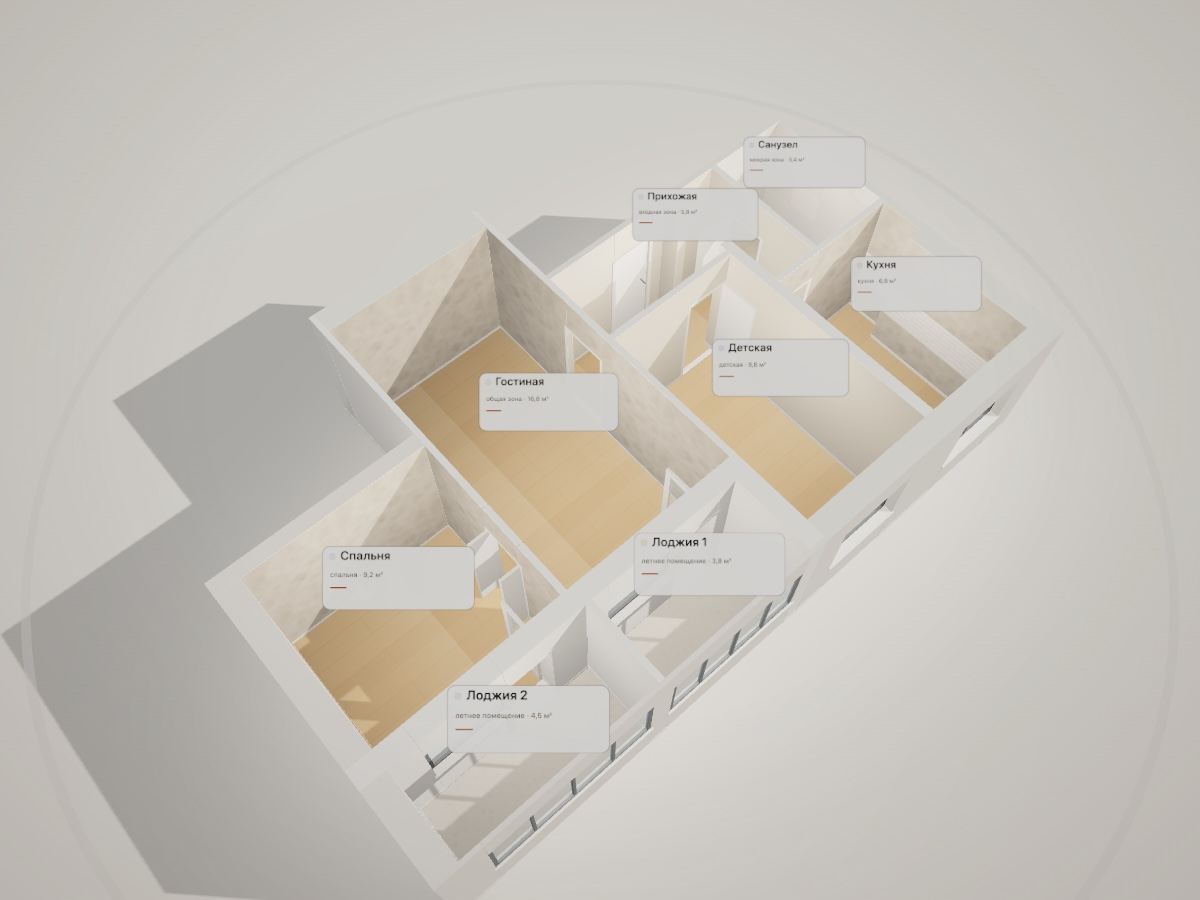
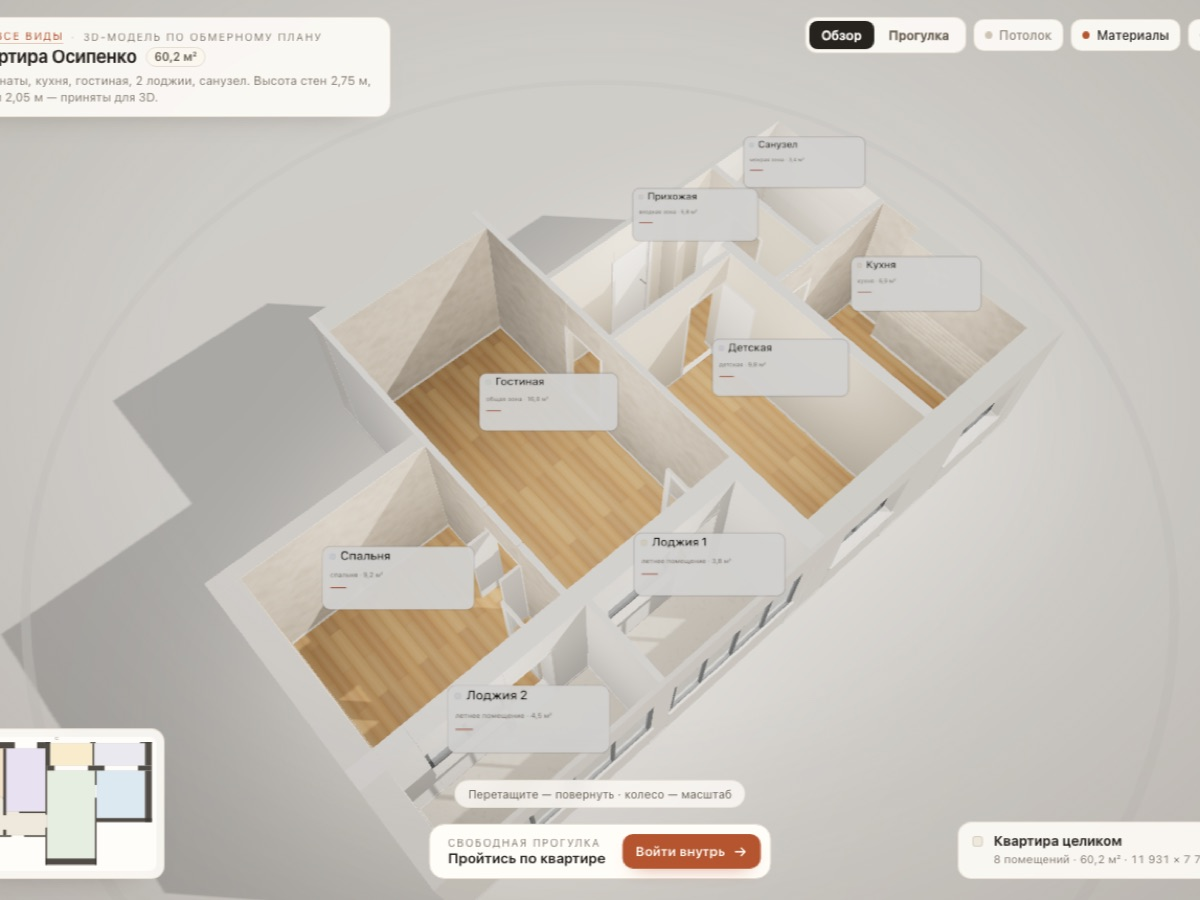
Show AN 908 laminate at real plank scale with brick layout and take-off

diff --git a/3d.html b/3d.html
@@ -147,7 +147,24 @@
     font-size:9.9px; line-height:1.45; color:#7d7466; border-top:1px solid var(--line);
     padding-top:8px; margin:11px 0 1px;
   }
-  .sw-lam{background:linear-gradient(135deg,#d9c09b,#c5a173 55%,#b8905f)}
+  .fin-num{
+    display:flex; justify-content:space-between; align-items:baseline; gap:8px;
+    font-size:10.6px; line-height:1.5; padding:1px 0;
+    border-bottom:1px dashed rgba(120,108,92,.18);
+  }
+  .fin-num em{font-style:normal; color:var(--muted); font-size:10px}
+  .fin-num b{font-weight:600; font-variant-numeric:tabular-nums; white-space:nowrap}
+  .fin-sum{
+    display:flex; justify-content:space-between; align-items:baseline; gap:8px;
+    font-size:11.2px; font-weight:650; line-height:1.5; padding:5px 0 1px;
+    border-bottom:1px solid var(--line);
+  }
+  .fin-sum span:last-child{font-variant-numeric:tabular-nums}
+  .fin-line{font-size:9.9px; line-height:1.45; color:#7d7466; margin:5px 0 6px}
+  .sw-lam{background:
+    repeating-linear-gradient(0deg,rgba(96,58,24,.30) 0 1px,transparent 1px 7px),
+    repeating-linear-gradient(90deg,rgba(96,58,24,.24) 0 1px,transparent 1px 14px),
+    linear-gradient(135deg,#e0bd90,#cfa477 55%,#c1935f)}
   .sw-por{background:radial-gradient(circle at 30% 25%,#e7dac7,#d3c2ab 70%)}
   .sw-log{background:linear-gradient(135deg,#dad5cb,#c9c2b5)}
   .sw-deco{background:radial-gradient(circle at 35% 30%,#e1d8cb,#cec2b1 75%)}
@@ -306,8 +323,21 @@
       <div class="fin-scroll">
         <div class="fin-group">
           <div class="fin-title">Полы</div>
-          <div class="fin-row"><span class="sw sw-lam"></span><div><b>Ламинат</b><small>светло-коричневый · все комнаты</small></div></div>
+          <div class="fin-row"><span class="sw sw-lam"></span><div><b>Ламинат AN 908</b><small>все помещения, кроме санузла и лоджий</small></div></div>
           <div class="fin-row"><span class="sw sw-por"></span><div><b>Керамогранит</b><small>бежевый · санузел</small></div></div>
+        </div>
+        <div class="fin-group">
+          <div class="fin-title">Раскладка ламината</div>
+          <div class="fin-row"><span class="sw sw-lam"></span><div><b>Anatolia Design Honey (AN 908)</b><small>33 класс · 8 мм · планка 1290×190 · 0,2451 м²</small></div></div>
+          <p class="fin-line">«Кирпичиком», сдвиг рядов 645 мм. Торец планок — к окну, значит планки идут перпендикулярно оконной стене. Одно направление на всю квартиру, подрезка у стен.</p>
+          <div class="fin-num"><span>Кухня <em>6,9 м²</em></span><b>31 планка</b></div>
+          <div class="fin-num"><span>Детская <em>9,8 м²</em></span><b>43 планки</b></div>
+          <div class="fin-num"><span>Спальня <em>9,2 м²</em></span><b>41 планка</b></div>
+          <div class="fin-num"><span>Гостиная <em>16,8 м²</em></span><b>74 планки</b></div>
+          <div class="fin-num"><span>Прихожая <em>5,8 м²</em></span><b>26 планок</b></div>
+          <div class="fin-sum"><span>Итого</span><span>48,5 м² · 215 планок</span></div>
+          <div class="fin-sum"><span>Закупка</span><span>27 упак. · 216 шт · 52,9 м²</span></div>
+          <p class="fin-line">В упаковке 8 планок = 1,9608 м². Нетто 198 планок; +7% на подрезку кирпичиком = 212; по помещениям в обрез — 215, поэтому берём 27 упаковок (запас 4,4 м²).</p>
         </div>
         <div class="fin-group">
           <div class="fin-title">Стены</div>
@@ -371,21 +401,21 @@
   if (!T){ fail('Не загрузилась библиотека 3D. Откройте файл заново.'); return; }
 
   const ROOMS = [
-    {id:'r1', name:'Кухня', role:'кухня', area:6.9, dims:'2 181 × 3 090', color:'#f3e2c8', floor:'wood',
+    {id:'r1', name:'Кухня', role:'кухня', area:6.9, dims:'2 181 × 3 090', color:'#f3e2c8', floor:'laminate',
      poly:[[400,400],[2581,400],[2581,3489],[150,3489],[150,2734],[400,2734]], label:[1400,1900]},
-    {id:'r2', name:'Детская', role:'детская', area:9.8, dims:'2 466 × 3 976', color:'#e8e1f1', floor:'wood',
+    {id:'r2', name:'Детская', role:'детская', area:9.8, dims:'2 466 × 3 976', color:'#e8e1f1', floor:'laminate',
      poly:[[2771,400],[5237,400],[5237,4376],[2771,4376]], label:[4000,2200]},
-    {id:'r3', name:'Спальня', role:'спальня', area:9.2, dims:'3 060 × 2 995', color:'#dde9f1', floor:'wood',
+    {id:'r3', name:'Спальня', role:'спальня', area:9.2, dims:'3 060 × 2 995', color:'#dde9f1', floor:'laminate',
      poly:[[8472,1800],[11531,1800],[11531,4794],[8472,4794]], label:[10000,3200]},
     {id:'log1', name:'Лоджия 1', role:'летнее помещение', area:3.8, dims:'2 672 × 1 410', color:'#f8eccd', floor:'concrete',
      poly:[[5537,70],[8208,70],[8208,1480],[5537,1480]], label:[6870,700]},
-    {id:'liv', name:'Гостиная', role:'общая зона', area:16.8, dims:'5 540 × 3 035', color:'#e5eee0', floor:'wood',
+    {id:'liv', name:'Гостиная', role:'общая зона', area:16.8, dims:'5 540 × 3 035', color:'#e5eee0', floor:'laminate',
      poly:[[5337,1800],[8372,1800],[8372,7339],[5337,7339]], label:[6855,3950]},
     {id:'log2', name:'Лоджия 2', role:'летнее помещение', area:4.5, dims:'3 223 × 1 410', color:'#e9e9ef', floor:'concrete',
      poly:[[8308,70],[11531,70],[11531,1480],[8308,1480]], label:[9900,700]},
     {id:'bath', name:'Санузел', role:'мокрая зона', area:3.4, dims:'1 502 × 2 287', color:'#d8ebee', floor:'porcelain',
      poly:[[129,3589],[1631,3589],[1631,5876],[129,5876]], label:[880,4680]},
-    {id:'hall', name:'Прихожая', role:'входная зона', area:5.8, dims:'', color:'#efe9dd', floor:'wood',
+    {id:'hall', name:'Прихожая', role:'входная зона', area:5.8, dims:'', color:'#efe9dd', floor:'laminate',
      poly:[[1731,3589],[1757,3589],[1757,3489],[2581,3489],[2581,4617],[2771,4617],[2771,4376],[3574,4376],[3574,4476],[5237,4476],[5237,4577],[5337,4577],[5337,5377],[5237,5377],[5237,5876],[2771,5876],[2771,5516],[2581,5516],[2581,5876],[1731,5876]], label:[2950,5050]}
   ];
 
@@ -424,14 +454,14 @@
   ];
 
   const FINISH = {
-    r1:  {walls:'deco', backsplash:true, ceil:'paint', short:'Ламинат · декоративка + фартук'},
-    r2:  {walls:'paper', ceil:'white', short:'Ламинат · обои'},
-    r3:  {walls:'deco', accent:'east', ceil:'white', short:'Ламинат · декоративка + стена обоями'},
+    r1:  {walls:'deco', backsplash:true, ceil:'paint', short:'Ламинат AN 908 · декоративка + фартук'},
+    r2:  {walls:'paper', ceil:'white', short:'Ламинат AN 908 · обои'},
+    r3:  {walls:'deco', accent:'east', ceil:'white', short:'Ламинат AN 908 · декоративка + стена обоями'},
     log1:{walls:null, ceil:'white', short:'Без отделки'},
-    liv: {walls:'deco', ceil:'white', short:'Ламинат · декоративка'},
+    liv: {walls:'deco', ceil:'white', short:'Ламинат AN 908 · декоративка'},
     log2:{walls:null, ceil:'white', short:'Без отделки'},
     bath:{walls:'tile', ceil:'paint', short:'Керамогранит · плитка'},
-    hall:{walls:'paper', ceil:'white', short:'Ламинат · обои'}
+    hall:{walls:'paper', ceil:'white', short:'Ламинат AN 908 · обои'}
   };
 
   const MM = 0.001;
@@ -518,35 +548,79 @@
     return t;
   }
 
-  function woodTexture(){
-    return canvasTexture(1024, (g,S)=>{
-      g.fillStyle = '#cbaa80'; g.fillRect(0,0,S,S);
-      const rows = 7, ph = S/rows;
-      for (let i=0;i<rows;i++){
-        const tint = (Math.random() - 0.5)*0.075;
-        g.fillStyle = tint > 0 ? `rgba(255,246,232,${tint})` : `rgba(92,66,40,${-tint})`;
-        g.fillRect(0,i*ph,S,ph-2);
-        for (let k=0;k<20;k++){
-          const y = i*ph + 6 + Math.random()*(ph-12);
-          const x0 = Math.random()*S*0.7;
-          g.strokeStyle = `rgba(100,68,38,${0.03 + Math.random()*0.035})`;
-          g.lineWidth = 0.8 + Math.random()*1.4;
+  // Ламинат Anatolia Design Honey (AN 908), 33 класс, 8 мм, планка 1290 × 190 мм.
+  // Раскладка «кирпичиком» (ряды со сдвигом в полпланки = 645 мм), торец к окну:
+  // длинная ось планок идёт перпендикулярно оконной стене, то есть вдоль z модели.
+  // UV пола в ExtrudeGeometry = метры мировой сцены (u → x, v → z), поэтому
+  // планки рисуем вертикально, а повтор текстуры задаём в мм на 1 м.
+  const LAM = { len:1290, wid:190, cols:4 };                    // 4 планки поперёк
+  LAM.tileU = LAM.wid * LAM.cols;                               // 760 мм по u
+  LAM.tileV = LAM.len * 2;                                      // 2580 мм по v
+  const hash01 = (a,b) => { const s = Math.sin(a*127.1 + b*311.7) * 43758.5453; return s - Math.floor(s); };
+
+  function laminateTexture(){
+    const S = 1024;
+    const c = document.createElement('canvas');
+    c.width = c.height = S;
+    const g = c.getContext('2d');
+    const pw = S / LAM.cols;                     // 190 мм -> 256 px
+    const ph = S / 2;                            // 1290 мм -> 512 px
+    g.fillStyle = '#cfa477'; g.fillRect(0,0,S,S);
+    for (let col=0; col<LAM.cols; col++){
+      const x0 = col*pw;
+      const shift = (col % 2) ? ph/2 : 0;        // кирпичный сдвиг 645 мм
+      for (let k=-1; k<=2; k++){
+        const y0 = k*ph + shift;
+        const p = ((k % 2) + 2) % 2;             // чётность ряда — шов текстуры бесшовный
+        const rA = hash01(col+1, p+3), rB = hash01(col+7, p+11);
+        g.fillStyle = `hsl(${31 + rA*4}, ${32 + rB*8}%, ${51 + rA*8}%)`;
+        g.fillRect(x0, y0, pw, ph);
+        // волокно вдоль планки
+        const lines = 9 + Math.round(rB*7);
+        for (let i=0;i<lines;i++){
+          const fx = hash01(col*13+i, p*7+1);
+          const gx = x0 + 3 + fx*(pw-6);
+          const amp = 1.5 + hash01(col+i, p+29)*3.5;
+          const dark = i % 3 === 0;
+          g.strokeStyle = dark
+            ? `rgba(122,86,46,${0.05 + hash01(col+i*3, p+5)*0.05})`
+            : `rgba(255,240,214,${0.05 + hash01(col+i*5, p+9)*0.05})`;
+          g.lineWidth = 0.9 + hash01(col+i*7, p+13)*2.1;
           g.beginPath();
-          g.moveTo(x0, y);
-          g.bezierCurveTo(x0+90, y-4+Math.random()*8, x0+230, y-4+Math.random()*8, x0+390, y);
+          g.moveTo(gx, y0 + 6);
+          g.bezierCurveTo(gx + amp, y0 + ph*0.34, gx - amp, y0 + ph*0.68, gx + amp*0.5, y0 + ph - 6);
           g.stroke();
         }
-        g.fillStyle = 'rgba(96,68,40,.17)';
-        g.fillRect(0, i*ph, S, 2.4);
-        const jx = (i % 2 ? S*0.37 : S*0.79);
-        g.fillRect(jx, i*ph, 2.2, ph);
+        // фаска 4V + лёгкий сатин поперёк планки
+        const sh = g.createLinearGradient(x0, 0, x0+pw, 0);
+        sh.addColorStop(0,'rgba(98,68,36,.17)');
+        sh.addColorStop(.07,'rgba(255,255,255,0)');
+        sh.addColorStop(.48,'rgba(255,243,222,.10)');
+        sh.addColorStop(.93,'rgba(255,255,255,0)');
+        sh.addColorStop(1,'rgba(98,68,36,.17)');
+        g.fillStyle = sh; g.fillRect(x0, y0, pw, ph);
+        // торцевой замок
+        g.fillStyle = 'rgba(90,60,30,.24)';
+        g.fillRect(x0, y0 - 1.1, pw, 2.2);
+        g.fillStyle = 'rgba(255,243,222,.13)';
+        g.fillRect(x0, y0 + 1.1, pw, 1.1);
       }
-      const grd = g.createLinearGradient(0,0,S,0);
-      grd.addColorStop(0,'rgba(255,244,226,.10)');
-      grd.addColorStop(.5,'rgba(255,255,255,0)');
-      grd.addColorStop(1,'rgba(74,46,22,.035)');
-      g.fillStyle = grd; g.fillRect(0,0,S,S);
-    }, 1/2.4);
+      // продольный шов планки
+      g.fillStyle = 'rgba(90,60,30,.20)';
+      g.fillRect(x0 - 1, 0, 2, S);
+    }
+    for (let i=0;i<800;i++){
+      g.fillStyle = Math.random() > .5
+        ? `rgba(255,244,222,${0.015 + Math.random()*0.035})`
+        : `rgba(88,54,24,${0.015 + Math.random()*0.035})`;
+      g.fillRect(Math.random()*S, Math.random()*S, 1 + Math.random()*3, 1 + Math.random()*2.4);
+    }
+    const t = new T.CanvasTexture(c);
+    t.wrapS = t.wrapT = T.RepeatWrapping;
+    t.encoding = T.sRGBEncoding;
+    t.anisotropy = Math.min(8, renderer.capabilities.getMaxAnisotropy());
+    t.repeat.set(1000/LAM.tileU, 1000/LAM.tileV);
+    return t;
   }
 
   function porcelainTexture(){
@@ -717,7 +791,7 @@
 
   // ---------- scene ----------
   let wallMat, wallIntMat, trimMat, glassMat, frameMat, doorMat, metalMat, sillMat;
-  let porcelainMat, woodMat, concreteMat;
+  let porcelainMat, laminateMat, concreteMat;
   let decoMat, paperMat, accentMat, bathWallMat, splashMat, ceilWhiteMat, ceilPaintMat;
 
   function buildMaterials(){
@@ -731,7 +805,7 @@
     sillMat = new T.MeshStandardMaterial({color:0xe9e2d5, roughness:.55, metalness:0});
 
     porcelainMat = new T.MeshStandardMaterial({map:porcelainTexture(), roughness:.55, metalness:0});
-    woodMat = new T.MeshStandardMaterial({map:woodTexture(), roughness:.78, metalness:0});
+    laminateMat = new T.MeshStandardMaterial({map:laminateTexture(), roughness:.72, metalness:0});
     concreteMat = new T.MeshStandardMaterial({map:concreteTexture(), roughness:.92, metalness:0});
 
     decoMat = new T.MeshStandardMaterial({map:decoTexture(), roughness:.94, metalness:0});
@@ -810,7 +884,7 @@
   function buildFloors(){
     buildMaterials();
     ROOMS.forEach(r=>{
-      const base = r.floor === 'wood' ? woodMat : r.floor === 'porcelain' ? porcelainMat : concreteMat;
+      const base = r.floor === 'laminate' ? laminateMat : r.floor === 'porcelain' ? porcelainMat : concreteMat;
       const mat = base.clone();
       mat.side = T.DoubleSide;
       roomMats[r.id] = mat;
